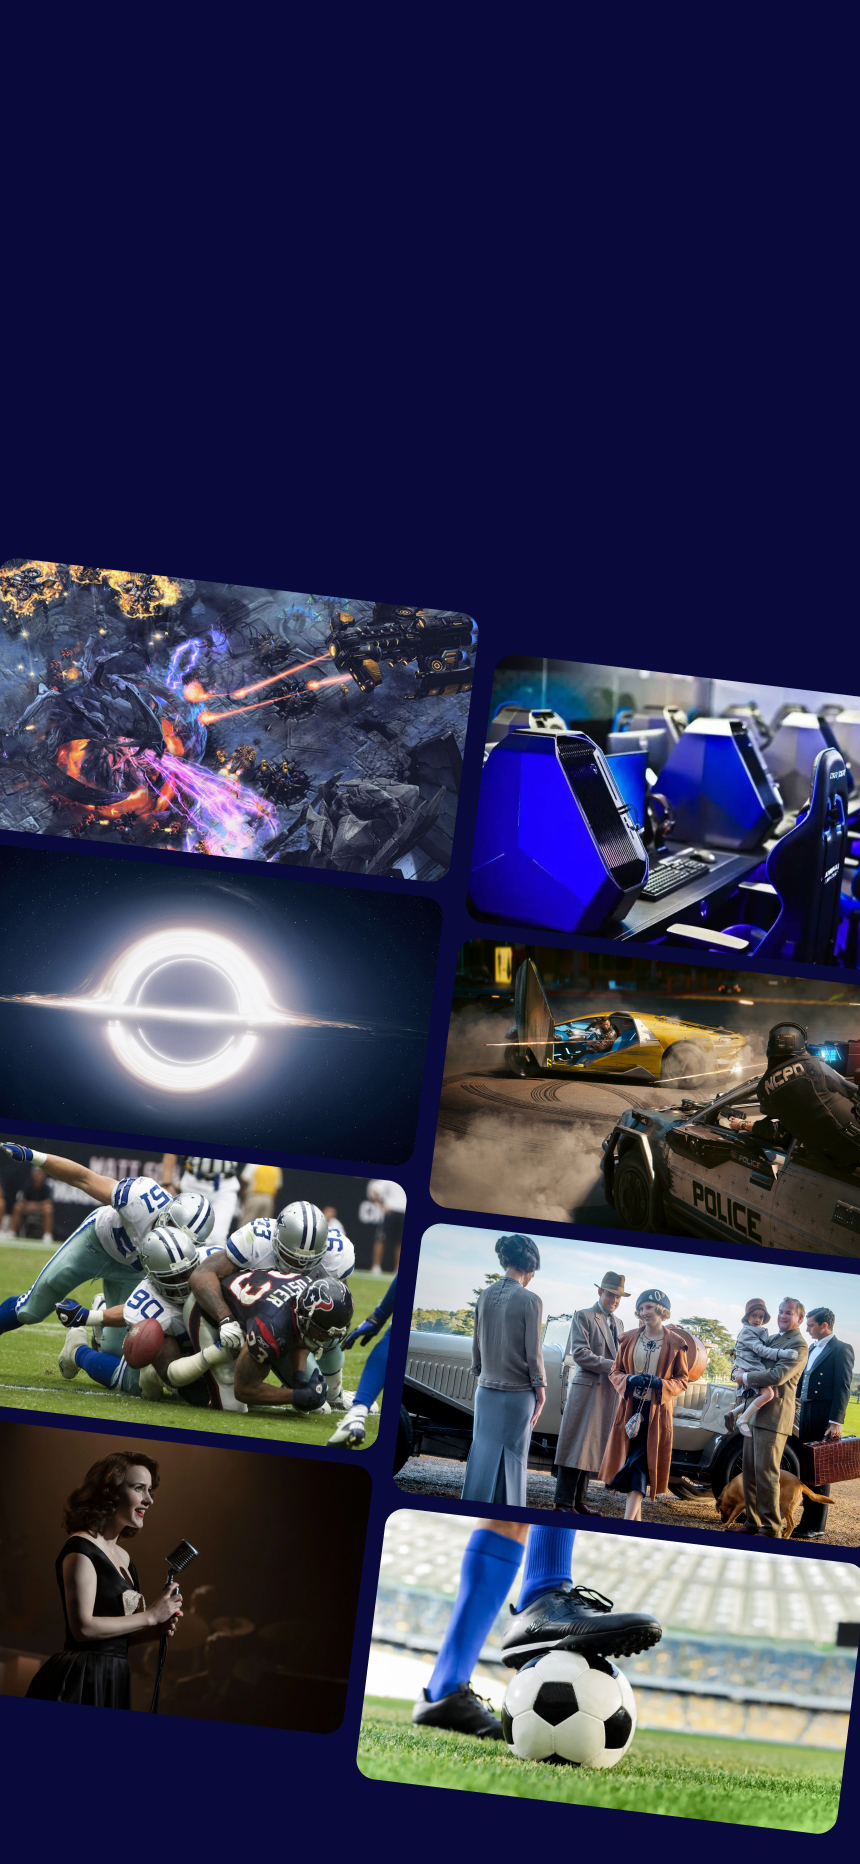
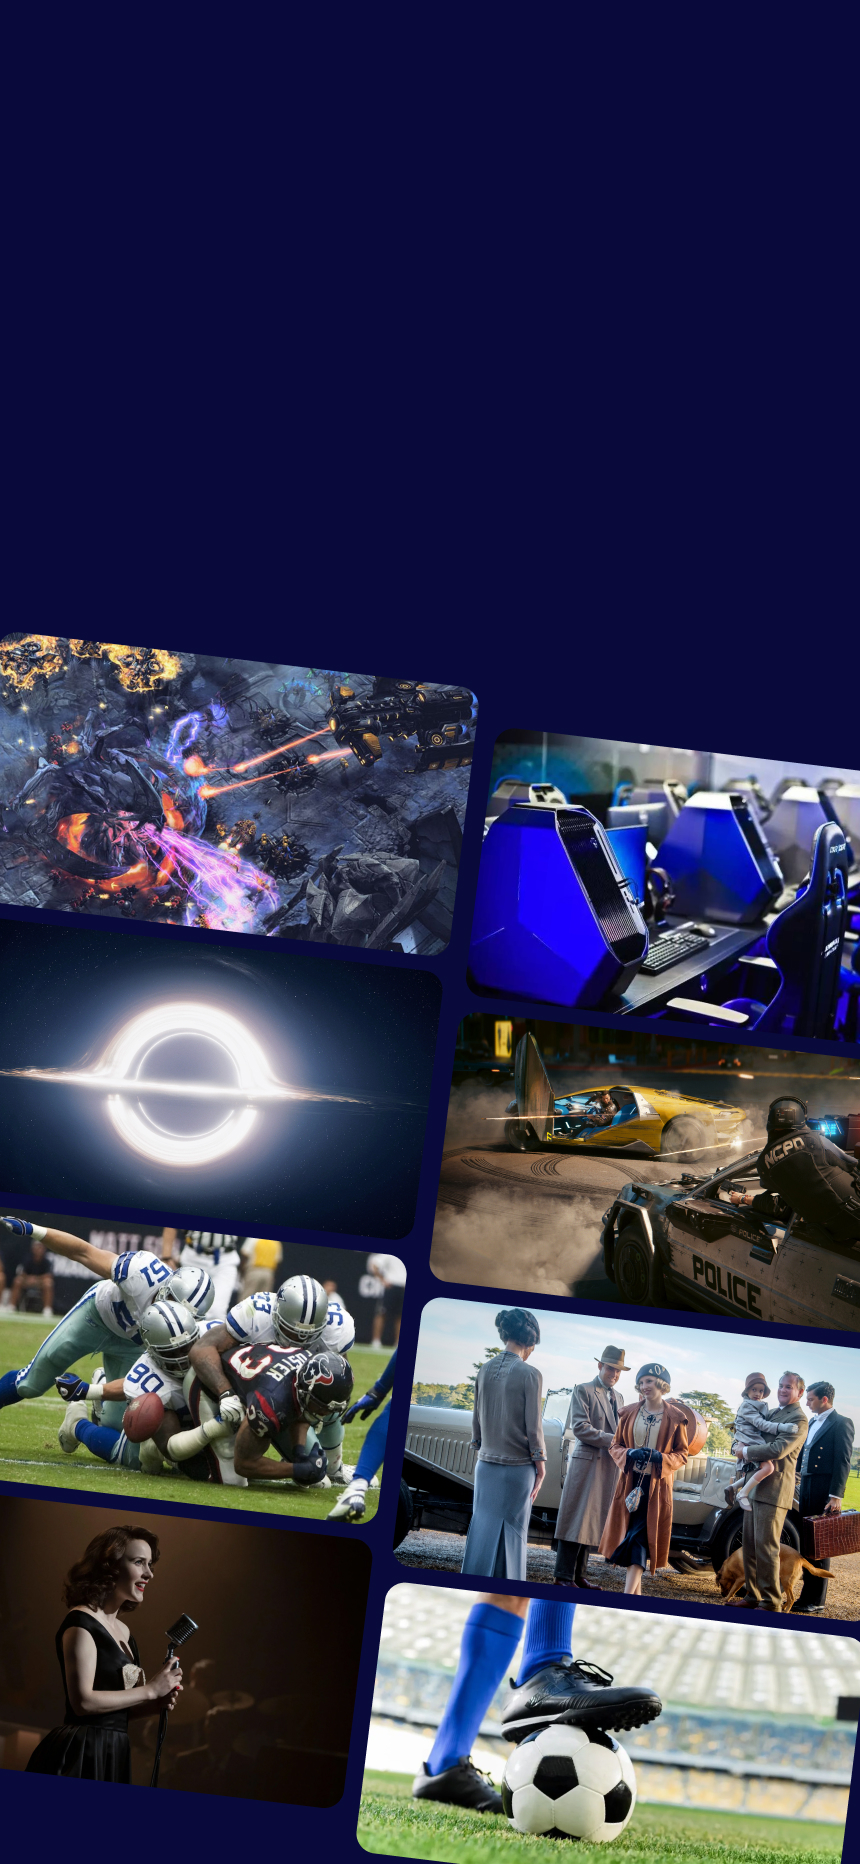
AdjustMobileStyling

diff --git a/style.css b/style.css
@@ -88,15 +88,15 @@
                 z-index: -5;
             }
             #hpherotagline{
-                font-size: 60px;
+                font-size: 80px;
                 margin-bottom: 3vw;
             }
             .hpbodycopy{
-                font-size: 28px;
+                font-size: 36px;
                 margin-bottom: 4vw;
             }
             #hpcontent{
-                margin-top: 77vh;
+                margin-top: 70vh;
                 background-color: #10145D;
                 background-image: linear-gradient(to bottom, #10145D, #111111);
             }
@@ -110,13 +110,13 @@
             }
             .hpstorytitle{
                 text-align: left;
-                font-size: 28px;
+                font-size: 36px;
                 margin-bottom: 1.5vw;
                 margin-left: 5vw;
              }
             .hpstorybody{
                 text-align: left;
-                font-size: 16px;
+                font-size: 24px;
                 margin-left: 5vw;
                 margin-right: 5vw;
             }
@@ -130,15 +130,14 @@
                 display: inline-block;
             }
             .comparison2{
-                width: 10vw;
+                width: 13vw;
                 display: inline-block;
             }
             .comparison3{
-                width: 20vw;
+                width: 25vw;
                 display: inline-block;
             }
             .comparison4{
-/*                width: 10vw;*/
                 display: inline-block;
             }
             #hpplaceholder{
@@ -448,13 +447,12 @@
                 height: 35vw;
             }
             .hpstorycolumn{
-                width: 40vw;
+                width: 30vw;
                 float: left;
-/*                height: 40vw;*/
                 display: inline-block;
                 margin-left: 8vw;
                 margin-top: 10vw;
-                margin-bottom: 10vw;
+                margin-right: 2vw;
             }
             .hpcta{
                 border-radius: 2vw;
@@ -534,11 +532,11 @@
                 font-size: 18px;
             }
             .comparison1{
-                width: 14vw;
+                width: 18vw;
                 display: inline-block;
             }
             .comparison2{
-                width: 6vw;
+                width: 8vw;
                 display: inline-block;
             }
             .comparison3{
@@ -595,6 +593,6 @@
             }
             .hphowdif{
                 margin-top: 10vw; 
-                height: 40vw;
+                height: 36vw;
             }
         }
